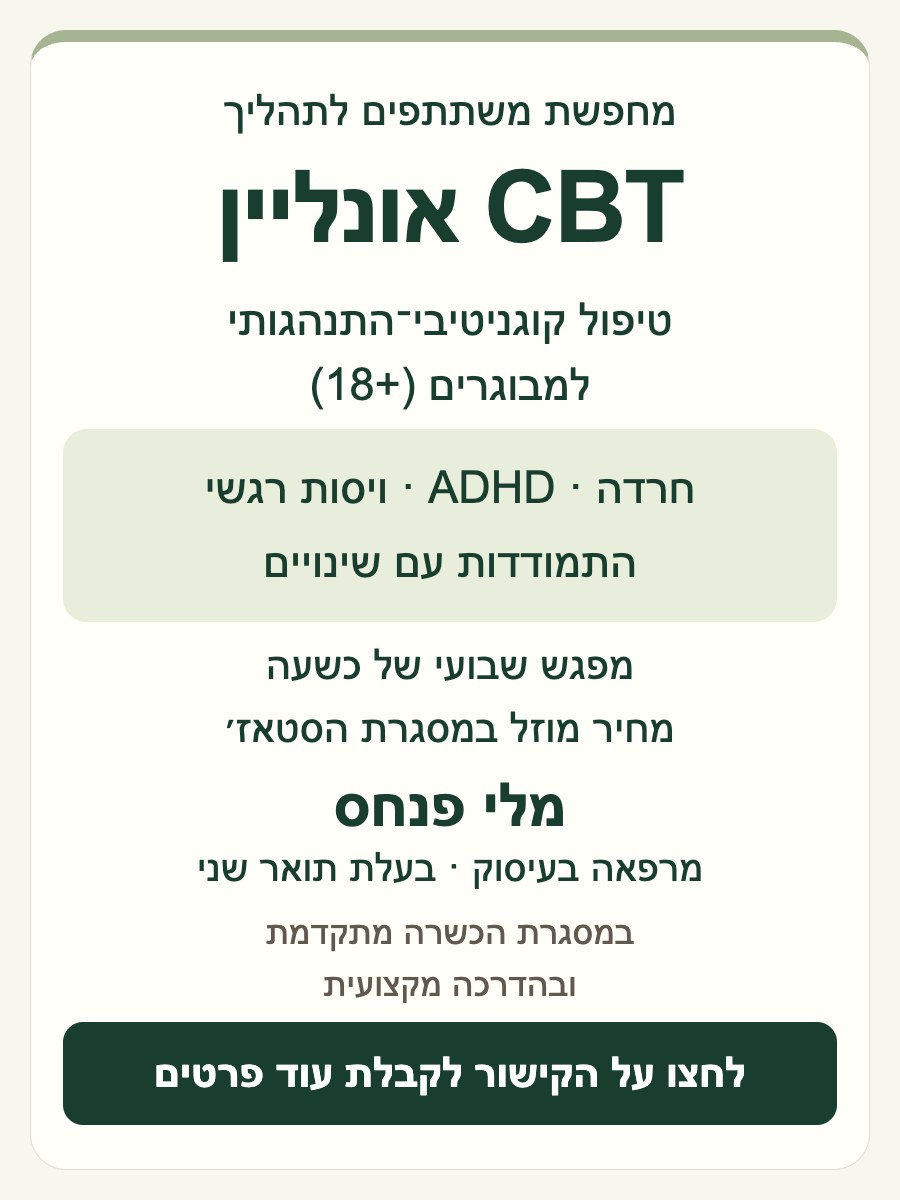
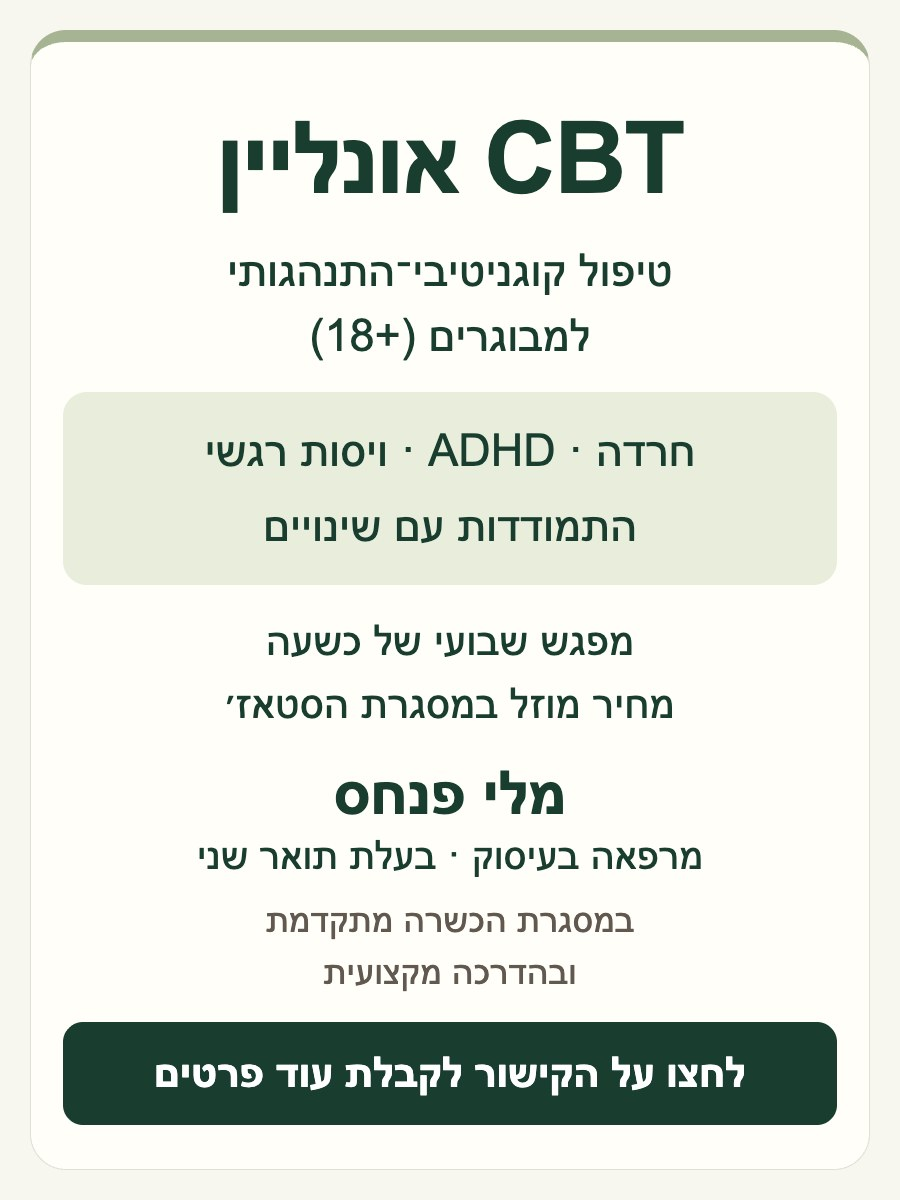
Remove participant recruitment line from CBT page and brochure

Changed region(s): [[0.0622, 0.0617, 0.9333, 0.6167], [0.2178, 0.6475, 0.7778, 0.8325]]

diff --git a/design/cbt-share.html b/design/cbt-share.html
@@ -1,3 +1,3 @@
 <!doctype html><html lang="he" dir="rtl"><meta charset="utf-8"><title>CBT mobile brochure preview</title><style>
-*{box-sizing:border-box}body{margin:0;width:900px;height:1200px;background:#f7f6ef;color:#193e30;font-family:Arial,sans-serif;padding:30px}main{height:1140px;border:1px solid #dce1d1;border-top:12px solid #a6b494;border-radius:36px;background:#fffef9;padding:44px 32px;text-align:center;display:flex;flex-direction:column;justify-content:space-between}p,h1{margin:0}.intro{font-size:43px}h1{font-size:100px;line-height:1.2;margin:12px 0 20px;letter-spacing:-2px}.subtitle{font-size:45px;line-height:1.45}.topics{background:#e9eddc;border-radius:24px;padding:22px 14px;font-size:45px;line-height:1.65}.details{font-size:42px;line-height:1.5}.name{font-size:60px;font-weight:700}.credentials{font-size:40px;margin-top:5px}.note{font-size:36px;line-height:1.45;margin-top:16px;color:#61584f}.cta{background:#193e30;color:white;border-radius:20px;padding:22px 12px;font-size:42px;font-weight:700;line-height:1.4}
-</style><main><div><p class="intro">מחפשת משתתפים לתהליך</p><h1><bdi>CBT</bdi> אונליין</h1><p class="subtitle">טיפול קוגניטיבי־התנהגותי<br>למבוגרים (<bdi dir="ltr">18+</bdi>)</p></div><div class="topics">חרדה · <bdi>ADHD</bdi> · ויסות רגשי<br>התמודדות עם שינויים</div><p class="details">מפגש שבועי של כשעה<br>מחיר מוזל במסגרת הסטאז׳</p><div><p class="name">מלי פנחס</p><p class="credentials">מרפאה בעיסוק · בעלת תואר שני</p><p class="note">במסגרת הכשרה מתקדמת<br>ובהדרכה מקצועית</p></div><p class="cta">לחצו על הקישור לקבלת עוד פרטים</p></main></html>
+*{box-sizing:border-box}body{margin:0;width:900px;height:1200px;background:#f7f6ef;color:#193e30;font-family:Arial,sans-serif;padding:30px}main{height:1140px;border:1px solid #dce1d1;border-top:12px solid #a6b494;border-radius:36px;background:#fffef9;padding:44px 32px;text-align:center;display:flex;flex-direction:column;justify-content:space-between}p,h1{margin:0}h1{font-size:100px;line-height:1.2;margin:12px 0 20px;letter-spacing:-2px}.subtitle{font-size:45px;line-height:1.45}.topics{background:#e9eddc;border-radius:24px;padding:22px 14px;font-size:45px;line-height:1.65}.details{font-size:42px;line-height:1.5}.name{font-size:60px;font-weight:700}.credentials{font-size:40px;margin-top:5px}.note{font-size:36px;line-height:1.45;margin-top:16px;color:#61584f}.cta{background:#193e30;color:white;border-radius:20px;padding:22px 12px;font-size:42px;font-weight:700;line-height:1.4}
+</style><main><div><h1><bdi>CBT</bdi> אונליין</h1><p class="subtitle">טיפול קוגניטיבי־התנהגותי<br>למבוגרים (<bdi dir="ltr">18+</bdi>)</p></div><div class="topics">חרדה · <bdi>ADHD</bdi> · ויסות רגשי<br>התמודדות עם שינויים</div><p class="details">מפגש שבועי של כשעה<br>מחיר מוזל במסגרת הסטאז׳</p><div><p class="name">מלי פנחס</p><p class="credentials">מרפאה בעיסוק · בעלת תואר שני</p><p class="note">במסגרת הכשרה מתקדמת<br>ובהדרכה מקצועית</p></div><p class="cta">לחצו על הקישור לקבלת עוד פרטים</p></main></html>

diff --git a/cbt/index.html b/cbt/index.html
@@ -27,7 +27,7 @@
   <header class="site-header"><a href="../he/">מלי פנחס <span>מרפאה בעיסוק</span></a><a class="home-link" href="../he/">לאתר הראשי ←</a></header>
   <main id="main-content" class="flyer">
     <section class="hero" aria-labelledby="title">
-      <h1 id="title"><span>מחפשת משתתפים לתהליך</span><strong><bdi>CBT</bdi> אונליין</strong></h1>
+      <h1 id="title"><strong><bdi>CBT</bdi> אונליין</strong></h1>
       <p class="subtitle">במסגרת הכשרה מקצועית מתקדמת</p>
     </section>
     <section class="explanation" aria-labelledby="cbt-title">
